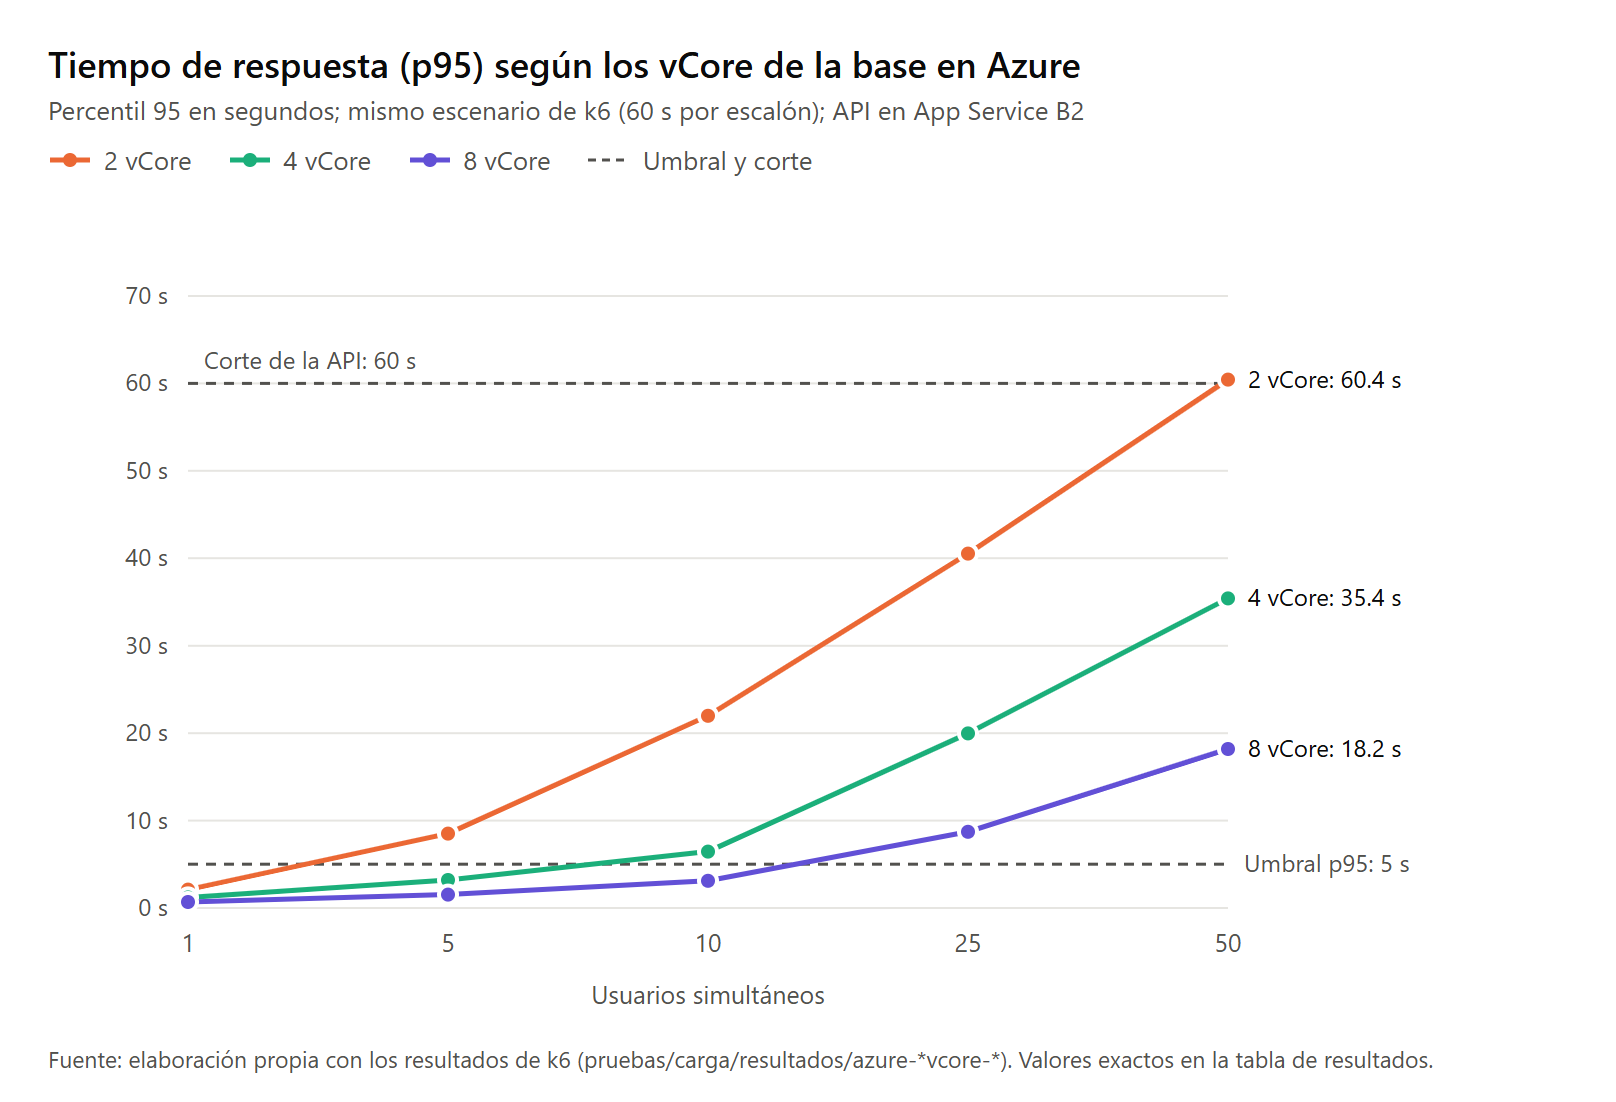
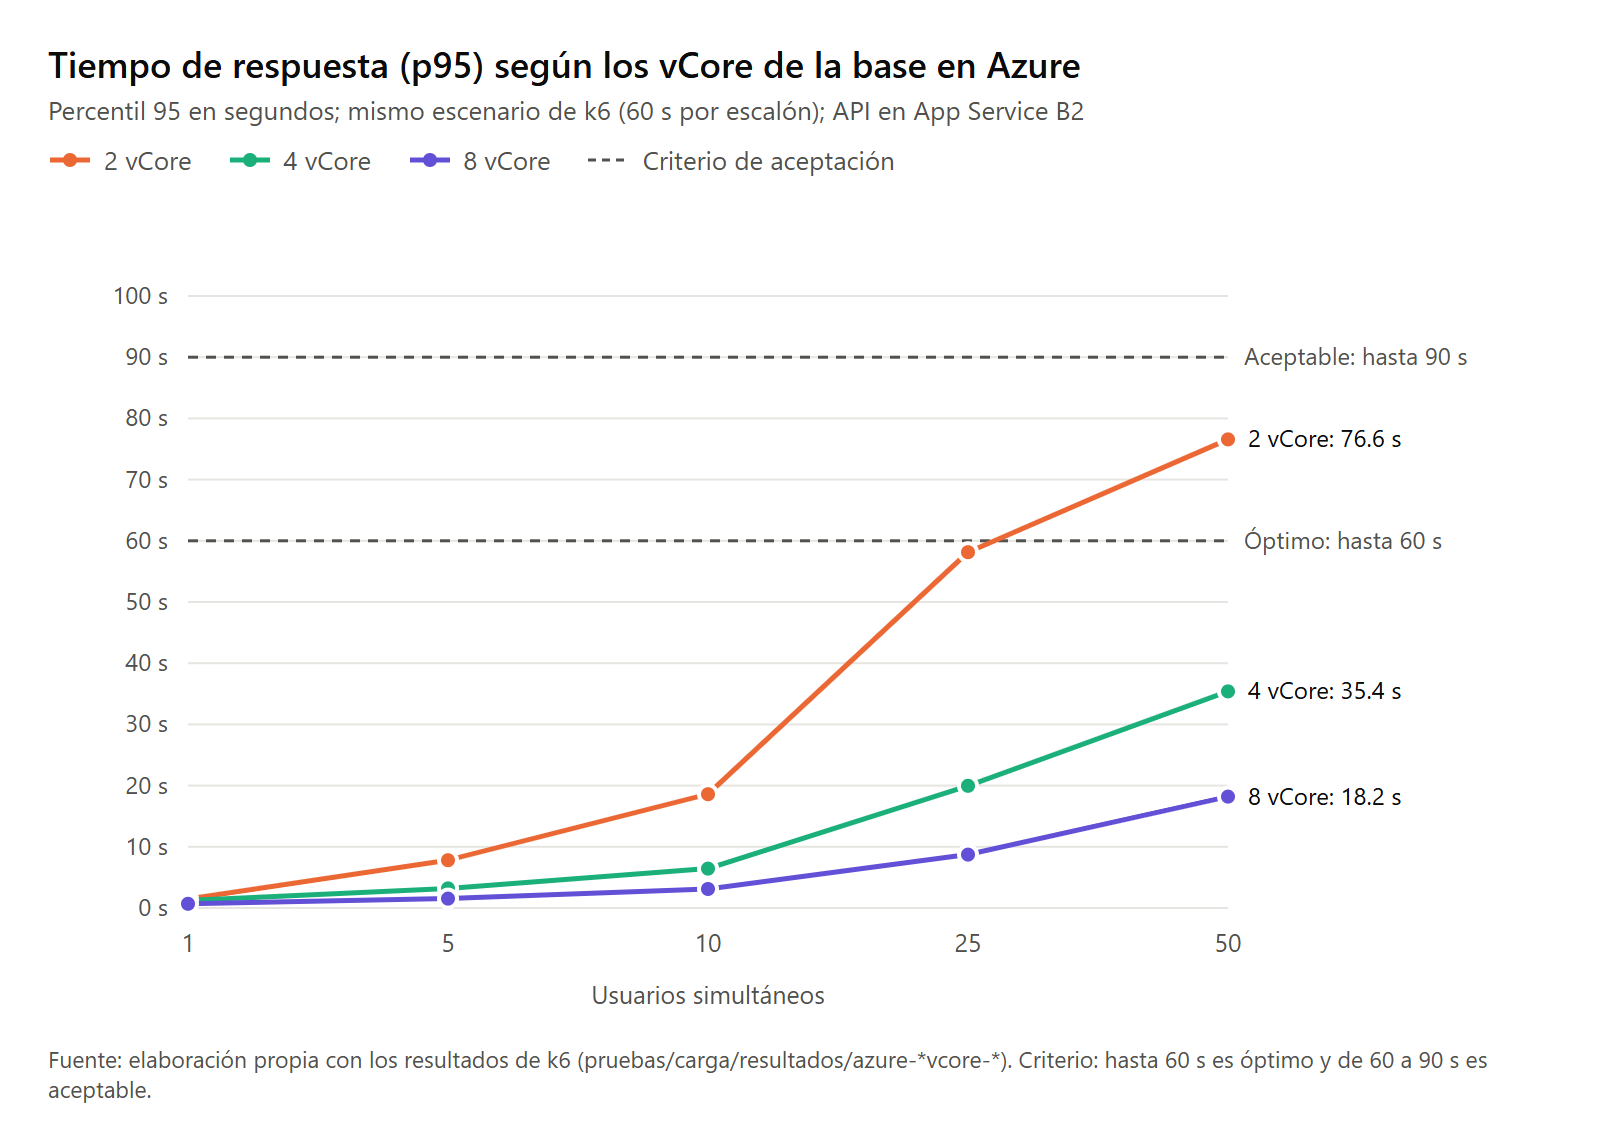
Ajusta el criterio de tiempo de respuesta a 60-90 s y el corte de la API a 90 s
- Umbral de k6: p95 de hasta 90 s (hasta 60 s optimo; de 60 a 90 s aceptable).
- Tiempo maximo de una consulta en la API: 90 s (API_TIEMPO_ESPERA_SEGUNDOS en
  docker-compose y BaseDatos__TiempoEsperaSegundos en App Service).
- Corrige un salto de linea roto en 08-publicar-api.sh.
- docs/pruebas.md con los resultados del 2026-10-27 y figura de vCore actualizada.
- Los manuales se marcan como en preparacion en los README.

diff --git a/pruebas/carga/consultas-censo.js b/pruebas/carga/consultas-censo.js
@@ -72,10 +72,13 @@ export const options = {
     carga: { executor: 'constant-vus', vus: USUARIOS, duration: DURACION, gracefulStop: '120s' },
   },
   summaryTrendStats: ['avg', 'min', 'med', 'p(90)', 'p(95)', 'p(99)', 'max'],
-  // Umbrales de aceptacion declarados antes de medir; un escalon que no los cumple queda marcado como fallido.
+  // Umbrales de aceptacion (capitulo III): p95 de hasta 60 s es optimo, de 60 a 90 s es aceptable y mas de 90 s no
+  // cumple. k6 marca como fallido el escalon que supera 90 s; el nivel optimo se distingue al analizar los resultados.
+  // (Hasta el 2026-10-21 el umbral era p95 < 5 s; se ajusto con el asesor por tratarse de consultas analiticas sobre
+  // 14.9 millones de registros.)
   thresholds: {
     http_req_failed: ['rate<0.01'],
-    http_req_duration: ['p(95)<5000'],
+    http_req_duration: ['p(95)<=90000'],
     checks: ['rate>0.99'],
   },
 };

diff --git a/docs/pruebas.md b/docs/pruebas.md
@@ -36,21 +36,21 @@ Consultas de comprobación rápida (`POST /api/consultas`):
 
 ## 3. Rendimiento de referencia
 
-Escenario de `pruebas/carga/consultas-censo.js`: 10 consultas típicas (30 % ligeras, 50 % medianas y 20 % pesadas), 60 s por escalón y 1 s de espera entre consultas de cada usuario. Criterio de aceptación: p95 menor de 5 s y menos de 1 % de errores.
+Escenario de `pruebas/carga/consultas-censo.js`: 10 consultas típicas (30 % ligeras, 50 % medianas y 20 % pesadas), 60 s por escalón y 1 s de espera entre consultas de cada usuario. Criterio de aceptación: p95 de hasta 60 s es **óptimo** y de 60 a 90 s es **aceptable**, por tratarse de consultas analíticas que recorren hasta 14.9 millones de registros; menos de 1 % de errores. El tiempo máximo de una consulta en la API es de 90 s (`API_TIEMPO_ESPERA_SEGUNDOS`).
 
 | Usuarios simultáneos | Local, SQL Server con 2 CPU | Azure, 2 vCore | Azure, 4 vCore | Azure, 8 vCore |
 |---:|---:|---:|---:|---:|
-| 1 | 2.2 s | 2.1 s | 1.2 s | 0.7 s |
-| 5 | 6.8 s | 8.5 s | 3.2 s | 1.5 s |
-| 10 | 14.3 s | 22.0 s | 6.5 s | 3.1 s |
-| 25 | 34.4 s | 40.5 s | 20.0 s | 8.7 s |
-| 50 | 56.4 s | 60.4 s | 35.4 s | 18.2 s |
+| 1 | 1.6 s | 1.5 s | 1.2 s | 0.7 s |
+| 5 | 5.6 s | 7.8 s | 3.2 s | 1.5 s |
+| 10 | 19.6 s | 18.6 s | 6.5 s | 3.1 s |
+| 25 | 44.3 s | 58.1 s | 20.0 s | 8.7 s |
+| 50 | 53.3 s | 76.6 s (aceptable) | 35.4 s | 18.2 s |
 | **Capacidad** | ~1.0 solicitudes/s | ~1.1 solicitudes/s | ~2.1 solicitudes/s | ~3.8 solicitudes/s |
-| Errores con 50 usuarios | 0.9 % | 19 % | 0 % | 0 % |
+| Errores | 0 % | 0 % | 0 % | 0 % |
 
-Valores de p95. En todos los casos, la API se mantuvo por debajo del 10 % de CPU y la base de datos fue el recurso saturado. La capacidad crece casi en proporción a los núcleos de la base. En un equipo de escritorio compartido con k6 y la API, dar más CPU al contenedor no mejora el resultado: la escalabilidad requiere núcleos dedicados para la base.
+Valores de p95; todos cumplen el criterio (óptimo, salvo 50 usuarios en Azure con 2 vCore, que es aceptable). En todos los casos la API se mantuvo por debajo del 15 % de CPU y la base de datos fue el recurso saturado: la capacidad crece casi en proporción a los núcleos de la base. En un equipo de escritorio compartido con k6 y la API, dar más CPU al contenedor no mejora el resultado: la escalabilidad requiere núcleos dedicados para la base.
 
-**Dimensionamiento:** cada vCore atiende unas 0.5 solicitudes por segundo con esta mezcla. Para que el p95 quede por debajo de 5 s, 2 vCore alcanzan para 1 usuario, 4 vCore para 5 y 8 vCore para 10 usuarios simultáneos.
+**Dimensionamiento:** cada vCore atiende unas 0.5 solicitudes por segundo con esta mezcla. Con 2 vCore se atienden 50 usuarios simultáneos dentro del rango aceptable; con 4 u 8 vCore, dentro del óptimo y con amplio margen.
 
 ![Tiempo de respuesta según los vCore](imagenes/fig-18-p95-vcore.png)
 

diff --git a/despliegue/README.md b/despliegue/README.md
@@ -1,6 +1,6 @@
 # Despliegue en producción (Azure)
 
-Scripts para publicar el sistema en Azure SQL Database y Azure App Service a partir de una instalación local ya cargada y verificada. La guía completa, con requisitos, dimensionamiento, costos y solución de problemas, está en la sección 8 del [manual técnico](../docs/manual-tecnico.md#8-puesta-en-producción-en-azure).
+Scripts para publicar el sistema en Azure SQL Database y Azure App Service a partir de una instalación local ya cargada y verificada. La guía completa, con requisitos, dimensionamiento, costos y solución de problemas, estará en el manual técnico (en preparación); mientras tanto, cada script describe sus pasos en sus comentarios.
 
 Requisitos: Azure CLI con sesión iniciada (`az login --use-device-code`), SqlPackage, .NET SDK 8, Python 3 y el contenedor local `censo-sqlserver` en marcha (los scripts usan su `sqlcmd`). Las variables `AZURE_*` se configuran en `.env`; los scripts generan y guardan ahí el nombre del servidor, la aplicación y las claves.
 

diff --git a/README.md b/README.md
@@ -45,8 +45,8 @@ Documentación interactiva de la API: `http://localhost:5000/swagger`.
 
 | Documento | Contenido |
 |---|---|
-| [Manual técnico](docs/manual-tecnico.md) | Requisitos, instalación, verificación, puesta en producción en Azure, operación, mantenimiento y solución de problemas |
-| [Manual de usuario](docs/manual-usuario.md) | Uso del tablero de Power BI y de la API, con ejemplos de cuadros |
+| Manual técnico (en preparación) | Requisitos, instalación, verificación, puesta en producción en Azure, operación, mantenimiento y solución de problemas |
+| Manual de usuario (en preparación) | Uso del tablero de Power BI y de la API, con ejemplos de cuadros |
 | [Pruebas y resultados de referencia](docs/pruebas.md) | Pruebas automáticas, exactitud, conteos esperados y rendimiento |
 | [Catálogo](docs/catalogo.md) | Hechos, dimensiones, medidas, indicadores y operadores consultables |
 | [Convenciones](docs/convenciones.md) | Stack, nombres del esquema y decisiones de diseño |
